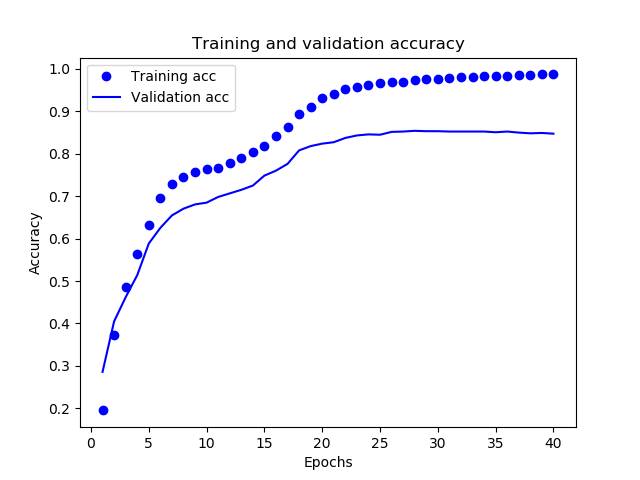
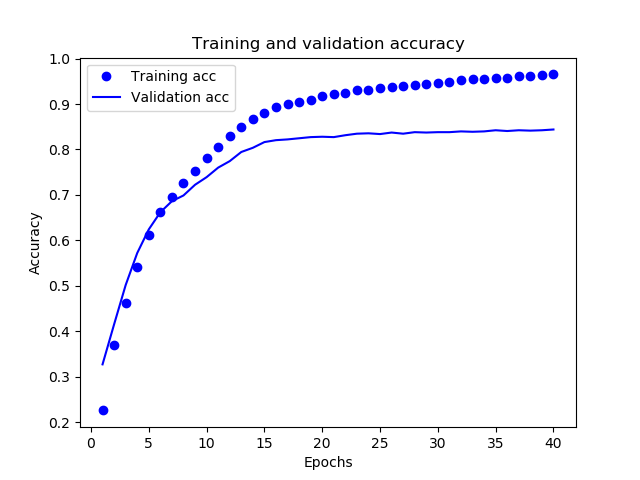
sweet data collection for tensorflow

diff --git a/tensorflow_process.py b/tensorflow_process.py
@@ -7,46 +7,101 @@ import csv
 
 processed_data = open('processed_data.csv','r')
 
-train_data = []
-train_labels = []
+data_X = []
+data_labels = []
 
 firstline = processed_data.readline()
 
 myreader = csv.reader(processed_data,delimiter=',')
+TFMap = {'True':1,'False':0}
 sublist = {"AskReddit":0,"politics":1,'worldnews':2,
            'nba':3,'funny':4,'movies':5}
 
 for line in myreader:
-    train_data.append(np.array(line[2:-1]))
-    train_labels.append(np.array(sublist[line[-1]]))
+    data_X.append(np.array([int(x) for x in line[:-1]]))
+    data_labels.append(np.array(sublist[line[-1]]))
 
-test_data = np.array(train_data[4000:])
-test_labels = np.array(train_labels[4000:])
-train_data = np.array(train_data[:4000])
-train_labels = np.array(train_labels[:4000])
+#test_data = np.array(train_data[4000:])
+#test_labels = np.array(train_labels[4000:])
+#train_data = np.array(train_data[:4000])
+#train_labels = np.array(train_labels[:4000])
 
-NUM_WORDS = len(train_data[0])
+NUM_WORDS = len(data_X[0])
 
-model = keras.Sequential([
-    # `input_shape` is only required here so that `.summary` works. 
-    keras.layers.Dense(16, activation=tf.nn.relu, input_shape=(NUM_WORDS,)),
-    keras.layers.Dense(16, activation=tf.nn.relu),
-    keras.layers.Dense(6, activation=tf.nn.softmax)
-])
+test_size = len(data_X)//10
+print("beginning cross validation:")
+scores = [];
+loss = []
+for i in range(10):
 
-model.compile(optimizer='adam',
-                       loss='sparse_categorical_crossentropy',
-                       metrics=['accuracy'])
+    test_data = np.array(data_X[i*test_size:((i+1)*test_size+1)])
+    test_labels = np.array(data_labels[i*test_size:((i+1)*test_size+1)])
+    train_data = np.array(data_X[:i*test_size] + data_X[(i+1)*test_size+1:])
+    train_labels = np.array(data_labels[:i*test_size] +
+                            data_labels[(i+1)*test_size+1:])
+    model = keras.Sequential([
+        # `input_shape` is only required here so that `.summary` works. 
+        keras.layers.Dense(16, activation=tf.nn.relu, input_shape=(NUM_WORDS,)),
+        keras.layers.Dense(16, activation=tf.nn.relu),
+        #keras.layers.Dropout(0.3),
+        #keras.layers.Dense(16, activation=tf.nn.relu),
+        #keras.layers.Dropout(0.3),
+        keras.layers.Dense(6, activation=tf.nn.softmax)
+    ])
 
-model.summary()
+    model.compile(optimizer='adam',
+                           loss='sparse_categorical_crossentropy',
+                           metrics=['accuracy'])
 
-history = model.fit(train_data,
-                              train_labels,
-                              epochs=20,
-                              batch_size=512,
-                              validation_data=(test_data, test_labels),
-                              verbose=1)
+    model.summary()
+    print("train size: ",len(train_data),"test size: ", len(test_data))
+    history = model.fit(train_data,
+                                  train_labels,
+                                  epochs=20,
+                                  batch_size=512,
+                                  validation_data=(test_data, test_labels),
+                                  verbose=1)
 
-results = model.evaluate(test_data,test_labels)
+    results = model.evaluate(test_data,test_labels)
+    scores.append(results[1])
+    loss.append(results[0])
+    print("results",results)
+print("mean score",np.mean(scores),"stdev",np.std(scores))
+print("mean loss:", np.mean(loss))
 
-print(results)
+import matplotlib.pyplot as plt
+
+acc = history.history['acc']
+val_acc = history.history['val_acc']
+loss = history.history['loss']
+val_loss = history.history['val_loss']
+
+epochs = range(1, len(acc) + 1)
+
+history_dict = history.history
+history_dict.keys()
+
+# "bo" is for "blue dot"
+plt.plot(epochs, loss, 'bo', label='Training loss')
+# b is for "solid blue line"
+plt.plot(epochs, val_loss, 'b', label='Validation loss')
+plt.title('Training and validation loss')
+plt.xlabel('Epochs')
+plt.ylabel('Loss')
+plt.legend()
+
+plt.show()
+
+plt.clf()   # clear figure
+acc_values = history_dict['acc']
+val_acc_values = history_dict['val_acc']
+
+plt.plot(epochs, acc, 'bo', label='Training acc')
+plt.plot(epochs, val_acc, 'b', label='Validation acc')
+plt.title('Training and validation accuracy')
+plt.xlabel('Epochs')
+plt.ylabel('Accuracy')
+plt.legend()
+
+plt.show()
+

diff --git a/process_data.py b/process_data.py
@@ -7,6 +7,7 @@ from nltk.corpus import stopwords
 reddit_tokenizer = nltk.TweetTokenizer(strip_handles=True,reduce_len=True)
 file = open("redditdata.csv",'r')
 all_words = []
+all_bigrams = []
 data_arr = []
 
 #parse through the csv file
@@ -21,23 +22,30 @@ for line in file:
     metadata = no_quotes.split(',')
     title = reddit_tokenizer.tokenize(title_string.lower())
     #title = [w for w in title if not w in stop_words] # removes stop words
-    score = metadata[1]
-    num_comments = metadata[2]
-    classification = metadata[3]
-    title_word_pairs = [" ".join(pair) for pair in nltk.bigrams(title)]
-    #data = title + title_word_pairs #code for word pairs
+    #score = metadata[1]
+    #num_comments = metadata[2]
+    classification = metadata[1]
+    title_string_no_punc = title_string.translate(table)
+    title_no_punc = reddit_tokenizer.tokenize(title_string_no_punc.lower())
+    title_word_pairs = [" ".join(pair) for pair in nltk.bigrams(title_no_punc)]
+    data = title + title_word_pairs #code for word pairs
+    all_bigrams.extend(title_word_pairs)
     data = {}
     data['title'] = title
-    data['num_comments'] = num_comments
-    data['score'] = score
+    #data['num_comments'] = num_comments
+    #data['score'] = score
     if not title or not classification:
         print('error occurred')
     data_arr.append((data,classification))
     all_words.extend(data['title'])
 
 all_words_dist = nltk.FreqDist(all_words)
-word_features = all_words_dist.most_common(3000)
+word_features = all_words_dist.most_common(5000)
 word_features = [word[0] for word in word_features]
+
+#bigram_dist = nltk.FreqDist(all_bigrams)
+#bigram_features = bigram_dist.most_common(2000)
+#word_features += [word[0] for word in bigram_features]
 #use some number of most frequent words in the dataset. change number below to update
 #word_features = list(all_words_dist)[:3000]
 
@@ -45,10 +53,10 @@ def reddit_features(data):
     tokens = data['title']
     word_distribution = nltk.FreqDist(tokens)
     features = {}
-    features['num_comments'] = data['num_comments']
-    features['score'] = data['score']
+    #features['num_comments'] = data['num_comments']
+    #features['score'] = data['score']
     for word in word_features:
-        features['contains({})'.format(word)] = word_distribution[word] > 0
+        features['contains({})'.format(word)] = word_distribution[word]
     return features
 
 print("size of entire data set is ",len(data_arr))
@@ -60,7 +68,7 @@ for i in range(len(data_arr)):
         print(i)
     featuresets[i] = (reddit_features(data_arr[i][0]),data_arr[i][1])
 #featuresets = [(reddit_features(f),c) for (f,c) in data_arr]
-outfile = open('processed_data.csv','w')
+outfile = open('processed_data_orig.csv','w')
 metafile = open('word_metadata.txt','w')
 #write data to csv file
 #metadata is saved in txt file in order to avoid headache formatting errors in csv
@@ -103,7 +111,7 @@ print(ct)
 ##          accuracy)
 ##print("average accuracy:", sum(acc)/len(acc));
 ##classifier.show_most_informative_features(10)
-#train_set, test_set = featuresets[test_size:],featuresets[:test_size]
-#print("beginning training")
-#classifier = nltk.NaiveBayesClassifier.train(train_set)
-#print("accuracy:",nltk.classify.accuracy(classifier,test_set))
+##train_set, test_set = featuresets[test_size:],featuresets[:test_size]
+##print("beginning training")
+##classifier = nltk.NaiveBayesClassifier.train(train_set)
+##print("accuracy:",nltk.classify.accuracy(classifier,test_set))

diff --git a/README.md b/README.md
@@ -1,2 +1,2 @@
 # 349FinalProject
-This is where we do just enough work to pass our classes. 
+The classiest redditors in town.
